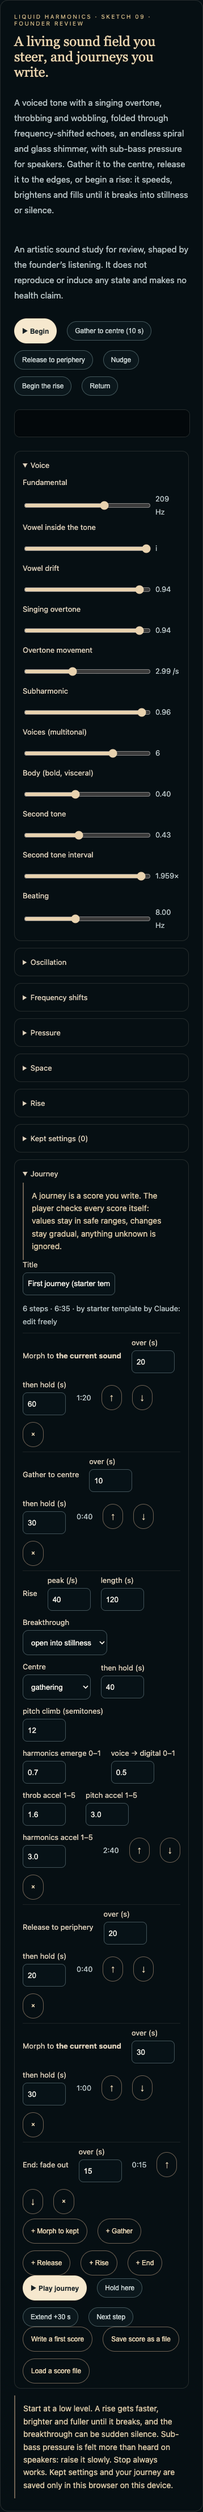
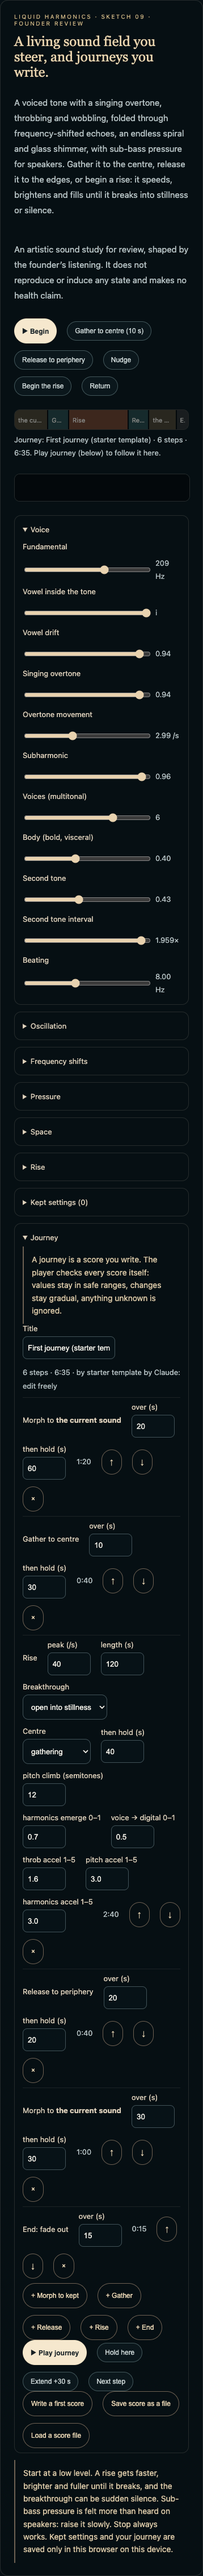
LISTEN-01: Liquid Harmonics journey timeline with playhead (review-only)
Founder request after first listening of the port: show where the journey is.
- Engine view exposes per-step elapsed time (hold-aware).
- Desk: timeline under Begin/Play, one band per step, playhead, step line;
  stretches to actual step durations after Hold/Extend/Next.
- Witness 10/10 (timeline preview, forward playhead, step naming, 390 px).
Review branch only: no merge, deploy, flag or member-access change.

diff --git a/app/listen/LiquidHarmonicsDesk.tsx b/app/listen/LiquidHarmonicsDesk.tsx
@@ -24,6 +24,43 @@ const shared: { engine: LiquidEngine | null; params: Params; loaded: boolean } =
 
 const GROUPS = ['Voice', 'Oscillation', 'Frequency shifts', 'Pressure', 'Space', 'Rise'] as const;
 const mmss = (x: number) => `${Math.floor(x / 60)}:${String(Math.floor(x % 60)).padStart(2, '0')}`;
+const stepLabel = (st: Step) => st.type === 'morph' ? st.name : st.type === 'end' ? 'End' : st.type[0].toUpperCase() + st.type.slice(1);
+
+// How long each step of the running journey actually took (Hold pauses a step, Extend lengthens it, Next shortens it),
+// so the timeline stretches or shrinks to what really happened rather than only what the score planned.
+type Track = { i: number; last: number; done: number[] };
+const newTrack = (): Track => ({ i: -1, last: 0, done: [] });
+
+function JourneyTimeline({ score, J, phase, track }: { score: Score; J: LiquidView['journey']; phase: string; track: Track }) {
+  const widths = score.steps.map((st, i) => {
+    const planned = stepSeconds(st);
+    if (!J || i > J.i) return planned;
+    if (i < J.i) return track.done[i] ?? planned;
+    return Math.max(planned, J.stepElapsed);
+  });
+  const total = widths.reduce((a, x) => a + x, 0) || 1;
+  const at = J ? widths.slice(0, J.i).reduce((a, x) => a + x, 0) + Math.min(widths[J.i] ?? 0, J.stepElapsed) : 0;
+  const cur = J ? score.steps[J.i] : null;
+  const state = J ? (J.held ? ' · held' : phase === 'rising' ? ' · rising' : J.ending ? ' · fading' : '') : '';
+  return (
+    <div className={styles.liquidTimelineWrap} data-liquid-timeline="true">
+      <div className={styles.liquidTimeline} role="img"
+        aria-label={`Journey timeline: ${score.steps.map(stepLabel).join(', ')}`}>
+        {score.steps.map((st, i) => (
+          <span key={i} className={`${styles.liquidSeg} ${styles[`liquidSeg_${st.type}`] ?? ''} ${J && i === J.i ? styles.liquidSegNow : ''} ${J && i < J.i ? styles.liquidSegDone : ''}`}
+            style={{ flexGrow: widths[i] }} title={`${stepLabel(st)} · ${mmss(widths[i])}`} data-liquid-seg={st.type}>
+            <span>{stepLabel(st)}</span>
+          </span>
+        ))}
+        {J && <span className={styles.liquidPlayhead} style={{ left: `${(at / total) * 100}%` }} data-liquid-playhead={(at / total).toFixed(4)} />}
+      </div>
+      <p className={styles.muted} data-liquid-timeline-note="true">
+        {J && cur ? `Step ${J.i + 1} of ${J.n} · ${stepLabel(cur)} · ${mmss(at)} / ${mmss(total)}${state}`
+          : `Journey: ${score.title} · ${score.steps.length} steps · ${mmss(total)}. Play journey (below) to follow it here.`}
+      </p>
+    </div>
+  );
+}
 
 function download(name: string, data: unknown) {
   const a = document.createElement('a');
@@ -56,6 +93,7 @@ export default function LiquidHarmonicsDesk() {
   const [message, setMessage] = useState('');
   const canvas = useRef<HTMLCanvasElement>(null);
   const fileInput = useRef<HTMLInputElement>(null);
+  const track = useRef<Track>(newTrack());
   const live = transport?.snapshot.kind === 'sketch' && transport.snapshot.title === LIQUID_STUDY_TITLE &&
     transport.snapshot.playback === 'playing';
   const P = shared.params;
@@ -76,6 +114,9 @@ export default function LiquidHarmonicsDesk() {
       const e = shared.engine;
       if (canvas.current) drawSpectrum(canvas.current, e, bins);
       const v = e?.view() ?? null;
+      const t = track.current, jv = v?.journey;
+      if (!jv) { if (t.i !== -1) track.current = newTrack(); }
+      else { if (jv.i !== t.i) { if (t.i >= 0) t.done[t.i] = t.last; t.i = jv.i; } t.last = jv.stepElapsed; }
       const key = v ? `${v.phase}|${v.note}|${v.centreNote}|${v.journey ? `${v.journey.i}|${Math.floor(v.journey.elapsed)}|${v.journey.held}` : ''}` : '';
       if (key !== last) { last = key; setView(v); }
       // While a tween moves the sliders, redraw them a few times a second.
@@ -190,6 +231,8 @@ export default function LiquidHarmonicsDesk() {
         <button type="button" className={styles.focusChoice} data-liquid-return="true" disabled={!live || phase !== 'after' || Boolean(J)} onClick={() => shared.engine?.returnFromRise()}>Return</button>
         <span className={styles.muted} data-liquid-note="true" aria-live="polite">{[view?.centreNote, view?.note].filter(Boolean).join(' · ')}</span>
       </div>
+
+      {score && score.steps.length > 0 && <JourneyTimeline score={score} J={J} phase={phase} track={track.current} />}
 
       <canvas ref={canvas} width={720} height={110} className={styles.liquidSpectrum} aria-label="Spectrum of the sound, low to high" />
 

diff --git a/lib/listening/liquidHarmonics.ts b/lib/listening/liquidHarmonics.ts
@@ -182,7 +182,7 @@ const smooth = (f: number) => f * f * (3 - 2 * f);
 export type Phase = 'free' | 'journey' | 'rising' | 'after' | 'returning';
 export type LiquidView = {
   phase: Phase; note: string; centreNote: string;
-  journey: { i: number; n: number; type: string; elapsed: number; total: number; held: boolean; ending: boolean } | null;
+  journey: { i: number; n: number; type: string; elapsed: number; stepElapsed: number; total: number; held: boolean; ending: boolean } | null;
 };
 export type LiquidEngine = ProceduralStudyHandle & {
   params: Params;
@@ -204,7 +204,7 @@ const RETURN_KEYS = ['rate', 'depth', 'body', 'voices', 'center', 'wobble', 'spi
 
 type Tween = { t0: number; dur: number; from: Record<string, number>; to: Record<string, number>; ease: (f: number) => number;
   easeFor?: Record<string, (f: number) => number>; done?: () => void };
-type Journey = { steps: Step[]; i: number; t0: number; lastT: number | null; waitUntil: number | null; next: number | 'stop'; ending: boolean; held: boolean };
+type Journey = { steps: Step[]; i: number; t0: number; s0: number; lastT: number | null; waitUntil: number | null; next: number | 'stop'; ending: boolean; held: boolean };
 
 export function createLiquidEngine(ctx: AudioContext, destination: AudioNode, params: Params, api: ProceduralStudyAPI): LiquidEngine {
   const P = params;
@@ -351,7 +351,7 @@ export function createLiquidEngine(ctx: AudioContext, destination: AudioNode, pa
   const finishJourney = () => { J = null; phase = 'free'; note = 'Journey complete.'; };
   const runStep = (i: number) => {
     if (!J) return;
-    J.i = i; const st = J.steps[i];
+    J.i = i; J.s0 = ctx.currentTime; const st = J.steps[i];
     const wait = (h: number) => () => { if (J) { J.waitUntil = ctx.currentTime + h; J.next = i + 1; } };
     if (!st) { finishJourney(); return; }
     if (silenced) { silenced = false; presence.gain.cancelScheduledValues(ctx.currentTime); presence.gain.setValueAtTime(0, ctx.currentTime); presence.gain.linearRampToValueAtTime(1, ctx.currentTime + 8); }
@@ -378,7 +378,7 @@ export function createLiquidEngine(ctx: AudioContext, destination: AudioNode, pa
     const t = ctx.currentTime;
     if (J) {
       const dt = t - (J.lastT ?? t); J.lastT = t;
-      if (J.held) { if (tween) tween.t0 += dt; if (J.waitUntil !== null) J.waitUntil += dt; J.t0 += dt; }
+      if (J.held) { if (tween) tween.t0 += dt; if (J.waitUntil !== null) J.waitUntil += dt; J.t0 += dt; J.s0 += dt; }
     }
     stepTween(t);
     if (J && !J.held && J.waitUntil !== null && t >= J.waitUntil) {
@@ -443,7 +443,7 @@ export function createLiquidEngine(ctx: AudioContext, destination: AudioNode, pa
       if (J || !s.steps.length || !(phase === 'free' || phase === 'after')) return false;
       if (silenced) { silenced = false; fadePresence(1, 8); }
       gatherTo = null; centreNote = ''; tween = null;
-      J = { steps: s.steps, i: 0, t0: ctx.currentTime, lastT: null, waitUntil: null, next: 0, ending: false, held: false };
+      J = { steps: s.steps, i: 0, t0: ctx.currentTime, s0: ctx.currentTime, lastT: null, waitUntil: null, next: 0, ending: false, held: false };
       runStep(0);
       return true;
     },
@@ -459,7 +459,7 @@ export function createLiquidEngine(ctx: AudioContext, destination: AudioNode, pa
       let journey: LiquidView['journey'] = null;
       if (J) {
         const total = J.steps.reduce((a, st) => a + stepSeconds(st), 0);
-        journey = { i: J.i, n: J.steps.length, type: J.steps[J.i]?.type ?? '', elapsed: Math.min(total, Math.max(0, ctx.currentTime - J.t0)), total, held: J.held, ending: J.ending };
+        journey = { i: J.i, n: J.steps.length, type: J.steps[J.i]?.type ?? '', elapsed: Math.min(total, Math.max(0, ctx.currentTime - J.t0)), stepElapsed: Math.max(0, ctx.currentTime - J.s0), total, held: J.held, ending: J.ending };
       }
       return { phase, note, centreNote, journey };
     },

diff --git a/app/listen/listen.module.css b/app/listen/listen.module.css
@@ -216,3 +216,16 @@
 .liquidList{list-style:none;margin:8px 0;padding:0;display:flex;flex-direction:column;gap:8px;font-size:13px;color:#ddd0bb}
 .liquidList li{border-top:1px solid rgba(226,216,194,.1);padding-top:8px}
 .liquidList input[type=number],.orbitRow input:not([type]){box-sizing:border-box;background:#071217;color:#f1efe7;border:1px solid #415258;border-radius:8px;padding:8px;min-height:40px;max-width:100%}
+
+.liquidTimelineWrap{max-width:720px;min-width:0;overflow:hidden;margin:12px 0 0}
+.liquidTimeline{position:relative;display:flex;gap:2px;height:34px;border-radius:10px;overflow:hidden;border:1px solid rgba(226,216,194,.14);background:#03080b}
+.liquidSeg{flex-basis:0;width:0;min-width:3px;display:flex;align-items:center;padding:0 6px;overflow:hidden;font-size:11px;color:#f1efe7;opacity:.55;background:rgba(217,184,120,.32)}
+.liquidSeg>span{white-space:nowrap;overflow:hidden;text-overflow:ellipsis}
+.liquidSeg_gather,.liquidSeg_release{background:rgba(94,170,168,.38)}
+.liquidSeg_rise{background:rgba(214,120,78,.5)}
+.liquidSeg_end{background:rgba(160,160,160,.25)}
+.liquidSegDone{opacity:.35}
+.liquidSegNow{opacity:1;box-shadow:inset 0 -3px 0 rgba(241,239,231,.85)}
+.liquidPlayhead{position:absolute;top:0;bottom:0;width:2px;margin-left:-1px;background:#f1efe7;box-shadow:0 0 6px rgba(241,239,231,.7);transition:left 1s linear;pointer-events:none}
+.liquidTimelineWrap p{margin:6px 0 0;font-size:13px}
+@media (prefers-reduced-motion:reduce){.liquidPlayhead{transition:none}}

diff --git a/docs/design/contracts/sound-studio-liquid-harmonics.md b/docs/design/contracts/sound-studio-liquid-harmonics.md
@@ -34,6 +34,10 @@ experience_verification: >
   tests/listening/liquid_harmonics.test.mjs. This is a logic witness, NOT a listening witness: no audible or
   calibrated level check, no headphone, subwoofer, Safari, iPhone or screen-lock test, and no authenticated walk of
   /listen. The founder's felt acceptance of this port (that it sounds as the local sketch did) is separate and not claimed.
+  2026-11-22 addition (founder request after first listening: "it doesnt show below the arc of the journey"): a journey
+  timeline under Begin / Play. The same witness, now 10/10, checks one segment per step and no playhead before playing; the
+  playhead only moves forward (0.11 → 0.86 of the journey); and the line names the step ("Step 2 of 4 · Rise · … · rising",
+  then "Step 3 of 4 · Gather"). There is still no overflow at 390 px. Logic witness only.
 ---
 
 # Sound Studio / Liquid Harmonics — Experience Contract
@@ -55,6 +59,15 @@ It lives in the Lab because it is a study under review, not a finished work.
 A journey is a score the listener writes: morph to a kept setting, gather, release, rise, end. Each rise has takeoff controls: pitch climb (up to two octaves), harmonics emerging, voice → digital, and separate acceleration for throb, pitch and harmonics (1 steady, 5 sudden takeoff). Hold here, Extend +30 s and Next step work between rises, never during one. A score can be saved and loaded as a plain file.
 
 Every score passes through `cleanScore` before it plays: every value is clamped to its control's range, transitions have minimum lengths, unknown keys and steps are dropped, and a score is capped at 40 steps and two hours. Whoever or whatever wrote it, the player keeps it within these limits. The starter score is labelled as a template written by Claude, not as the founder's composition.
+
+## Following a journey
+
+A timeline sits under Begin and Play. It has one band per step, each as wide as its share of the time and named (a morph by its setting's name). It previews a loaded score before it plays. While a journey plays:
+- a playhead moves along the band;
+- a line reads "Step n of N · name · elapsed / total", adding held, rising or fading where that applies;
+- Hold, Extend and Next change how long a step actually takes, and the band stretches or shrinks to match.
+
+The timeline only displays where the journey is; it is not a control. The playhead's motion respects reduced-motion settings.
 
 ## Safety
 
